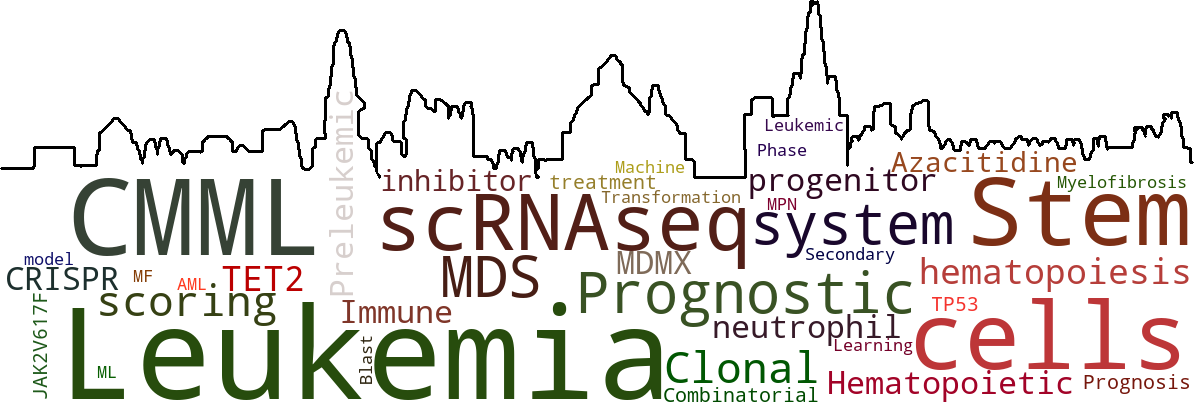
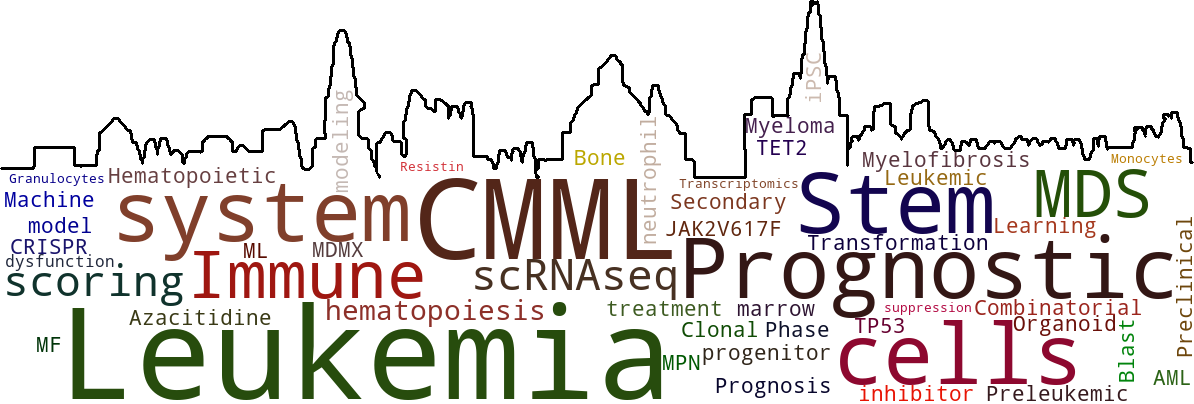
Add 2026 papers: JCI (resistin in CMML), Cell Stem Cell (comBO), Cancer Science (IDS)
Linked comBO to the Oxford role and the JCI and Cancer Science papers to
the PhD role; word cloud refreshed with the new keywords.

diff --git a/src/data/profile.ts b/src/data/profile.ts
@@ -67,6 +67,7 @@ export const experience: ExperienceItem[] = [
     dates: 'Jan 2024 – present',
     photo: oxfordPhoto,
     photoAlt: 'Kristian with his research group on a staircase in Oxford',
+    papers: ['2026-02-23-comBO'],
     summary:
       'I lead and co-lead projects that study blood cancers cell by cell: reading which genes are active in tens of thousands of individual cells, and mapping where those cells sit inside the bone marrow.',
     highlights: [
@@ -164,7 +165,7 @@ export const experience: ExperienceItem[] = [
         text: 'A Python package that automatically labels cell types from single-cell protein measurements, used across CMML and MDS patient groups.',
       },
     ],
-    papers: ['2020-08-01-EBM', '2023-06-01-CSC', '2023-04-05-BJH', '2023-11-02-Leukemia', '2024-07-12-BCJ', '2024-10-04-Leukemia'],
+    papers: ['2026-10-15-JCI', '2026-04-28-CAS', '2020-08-01-EBM', '2023-06-01-CSC', '2023-04-05-BJH', '2023-11-02-Leukemia', '2024-07-12-BCJ', '2024-10-04-Leukemia'],
   },
   {
     title: 'Business Development Associate',

diff --git a/src/content/publications/2026-04-28-CAS.md b/src/content/publications/2026-04-28-CAS.md
@@ -1,0 +1,16 @@
+---
+title: "An immune dysfunction signature score predicts survival in MDS patients: insights from a longitudinal, multicenter study"
+date: 2026-04-28
+venue: "Cancer Science"
+volume: "117"
+pages: "1921–1934"
+paperurl: https://doi.org/10.1111/cas.70405
+authors: "Wang YH, Gurnari C, Visconte V, Durmaz A, Guarnera L, Lee WH, Yao CY, Jerez A, **Gurashi K**, Batta K, Hou HA, Chou WC, Patnaik MS, Maciejewski J, Wiseman DH, Lin CC, Tien HF"
+role: Co-author
+excerpt: "An immune dysfunction signature from gene-activity data predicts survival in MDS and CMML, tracks disease progression over time and improves existing risk scores."
+keywords: MDS, CMML, Immune dysfunction, Prognostic scoring system, Transcriptomics, Leukemia
+---
+
+## Summary
+
+Myelodysplastic syndrome (MDS) and chronic myelomonocytic leukemia (CMML) are clonal myeloid neoplasms shaped by genetic lesions and immune dysregulation, both of which contribute to disease progression and poor outcomes. Existing prognostic systems, such as IPSS-R and IPSS-M, do not incorporate immune alterations. We assessed the biological and clinical relevance of an immune dysfunction signature (IDS) across multi-center MDS and CMML cohorts. IDS scores, derived from bulk transcriptomic data, were significantly associated with inferior leukemia-free and overall survival. In multivariable analyses, IDS retained independent prognostic value alongside IPSS-R, IPSS-M, and bi-allelic TP53 inactivation. Incorporation of IDS into existing models improved prognostic discrimination and time-dependent predictive accuracy. Longitudinal analyses revealed that rising IDS scores paralleled disease progression and acute transformation, whereas declining scores were observed in remission. Biologically, IDS-high cases demonstrated reduced cytotoxic T-cell activity, expansion of regulatory T cells, enrichment of primitive progenitor signals, and increased expression of checkpoint pathway genes. These findings were validated across multiple independent MDS cohorts and consistently reproduced in CMML, where IDS also stratified risk and tracked disease evolution. Finally, integration with drug response signatures from the BeatAMLv2 cohort suggested potential therapeutic vulnerability of IDS-high cases to multikinase and NF-κB pathway inhibitors. These results establish IDS as a robust and dynamic biomarker in MDS and CMML, with applications in refined risk stratification, longitudinal disease monitoring, and guiding personalized therapeutic strategies targeting immune dysfunction.

diff --git a/src/content/publications/2026-10-15-JCI.md b/src/content/publications/2026-10-15-JCI.md
@@ -1,0 +1,14 @@
+---
+title: "Granulocyte-derived resistin inhibits monocyte maturation and promotes an immunosuppressive phenotype in chronic myelomonocytic leukemia monocytes"
+date: 2026-10-15
+venue: "Journal of Clinical Investigation"
+paperurl: https://doi.org/10.1172/JCI201335
+authors: "Hull NJ, Cant R, Guest LA, Wang YH, **Gurashi K**, Paredes R, Rivera Rivera C, Lefkati R, Huerga Encabo H, Lin CC, Tien HF, Sellers R, Sahoo S, Bonnet D, Solary E, Selimoglu-Buet D, Wiseman DH, Batta K"
+role: Co-author
+excerpt: "In CMML, leukaemic granulocytes release large amounts of resistin, which stops monocytes from maturing and pushes them towards an immune-suppressing state."
+keywords: CMML, Granulocytes, Resistin, Monocytes, Immune suppression, Leukemia
+---
+
+## Summary
+
+Chronic myelomonocytic leukemia (CMML) is a hematological neoplasm characterized by expansion of malignant monocytes. However, as a stem cell neoplasm, the disease clone comprises most blood lineages, including granulocytes. To investigate their pathogenic contribution, we performed extensive phenotypic, transcriptomic and functional characterization of CMML granulocytes. These cells exhibited reduced granularity and impaired maturation, the latter of which is associated with poor prognosis. Functionally, CMML granulocytes displayed reduced phagocytic capacity and impaired NETosis, together with aberrant gene expression programs. Notably, *RETN*, encoding the chemokine resistin, was uniquely upregulated in CMML granulocytes. Accordingly, resistin levels were 10-fold higher in CMML plasma, correlating with inferior survival. Ex vivo exposure to resistin directly blocked monocyte maturation and macrophage differentiation, partly via TLR4 interaction, recapitulating the classical monocytosis repartitioning phenotype that characterizes CMML. Resistin-treated monocytes upregulated gene signatures related to immune suppression and myeloid-derived suppressor cell phenotype. Consistent with these findings, CMML patients displayed higher Treg proportions and Th2/Th1 ratios. Furthermore, we demonstrated that resistin directly skews the Th2/Th1 ratio via binding to monocytes. Thus, CMML granulocytes produce high levels of resistin, which contributes to defective monocyte maturation and induction of myeloid-derived suppressor cell features in monocytes, thereby fostering an immune-suppressive state in this disease.

diff --git a/src/content/publications/2026-02-23-comBO.md b/src/content/publications/2026-02-23-comBO.md
@@ -1,0 +1,16 @@
+---
+title: "comBO: A combined human bone and lympho-myeloid bone marrow organoid for preclinical modeling of hematopoietic disorders"
+date: 2026-02-23
+venue: "Cell Stem Cell"
+volume: "33"
+pages: "421–437.e7"
+paperurl: https://doi.org/10.1016/j.stem.2026.01.010
+authors: "Shen Y, Benlabiod C, Watson E, **Gurashi K**, Fower A, Rodriguez-Romera A, … Mead AJ, Roy A, Gooding S, Psaila B, Khan AO"
+role: Co-author
+excerpt: "comBO, a lab-grown human bone marrow organoid made from stem cells, reproduces bone, blood-vessel, lymphoid and myeloid compartments and can model diseases such as multiple myeloma."
+keywords: Organoid, Bone marrow, Hematopoiesis, iPSC, Myeloma, Preclinical modeling
+---
+
+## Summary
+
+The bone marrow is the primary site of blood and immune cell production in postnatal life. Current human models do not capture lympho-myeloid hematopoiesis and the stromal diversity needed for lifelong blood and immune maintenance. Here, we introduce comBO (combined bone and lympho-myeloid bone marrow organoid), a scalable induced pluripotent stem cell (iPSC)-derived system that generates osteolineage, vascular, lymphoid, and myeloid compartments within a single organoid. Developed under physioxia in granular microgel scaffolds, comBOs improve scalability and reproducibility and sustain long-term lympho-myeloid potential in serial organoid re-seeding assays. Incorporating healthy or malignant donor cells produces "chimeroids" that model physiological and pathological states. Using multiple myeloma as an exemplar, comBOs recapitulate niche remodeling and identify macrophage inhibitory factor (MIF) signaling as a disease driver. MIF inhibition reduces inflammation and myeloma proliferation, highlighting its therapeutic potential. comBOs offer a physiologically faithful bone marrow platform for disease modeling and therapeutic discovery in translational hematology and immunology.
